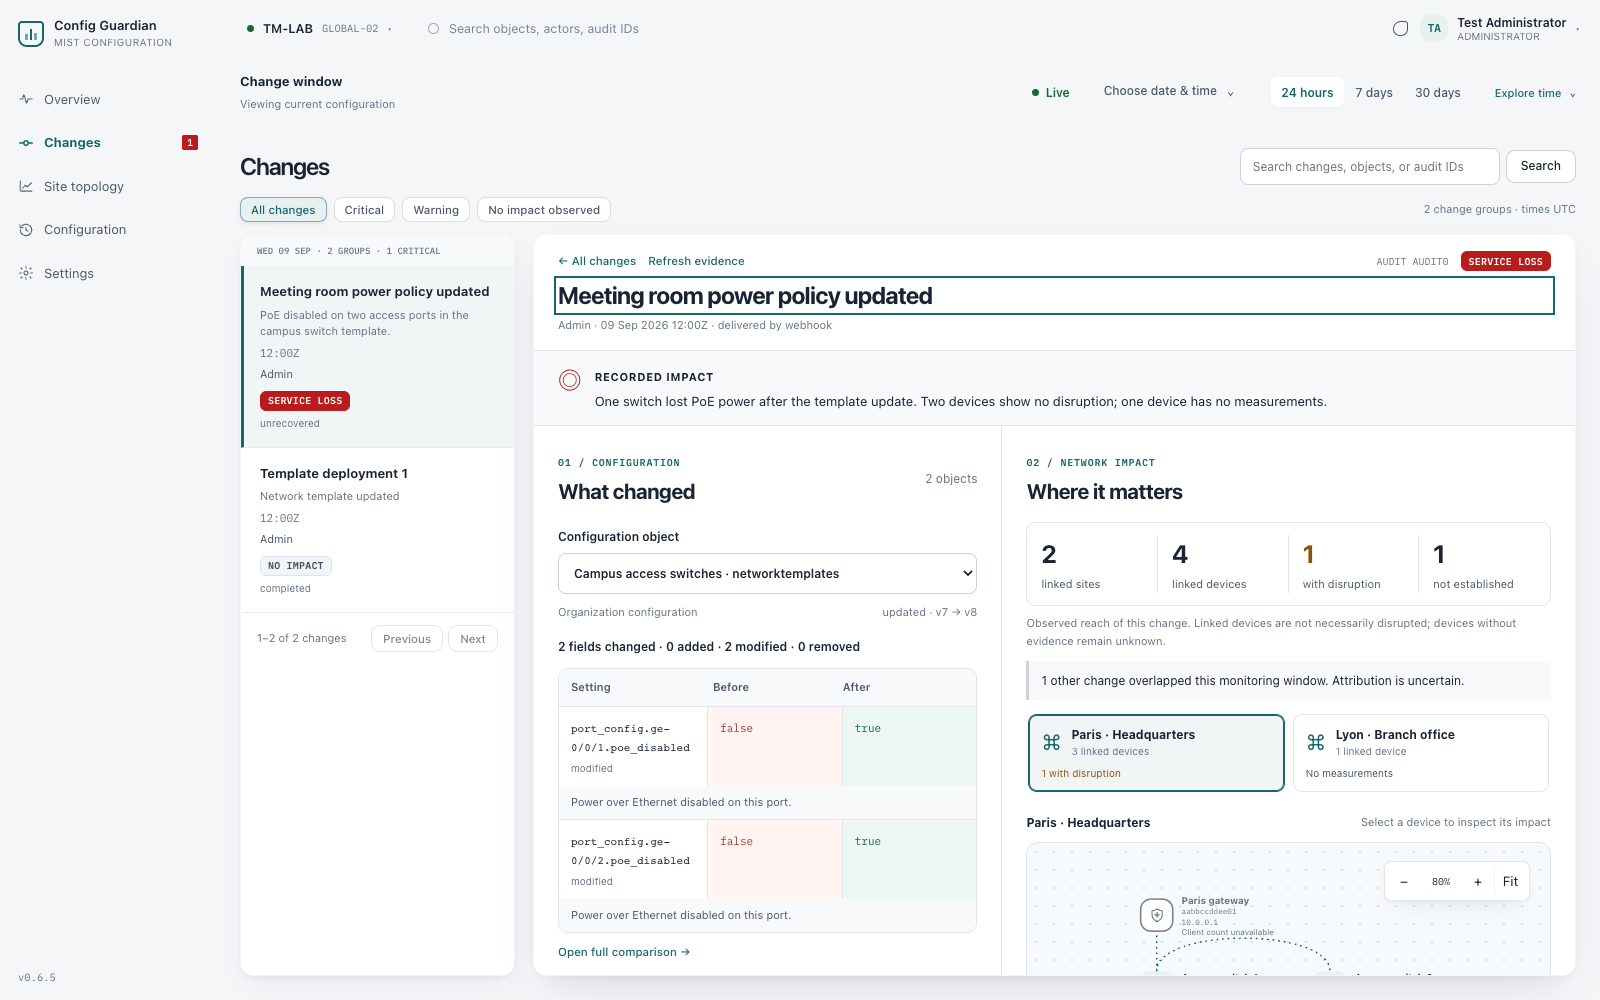
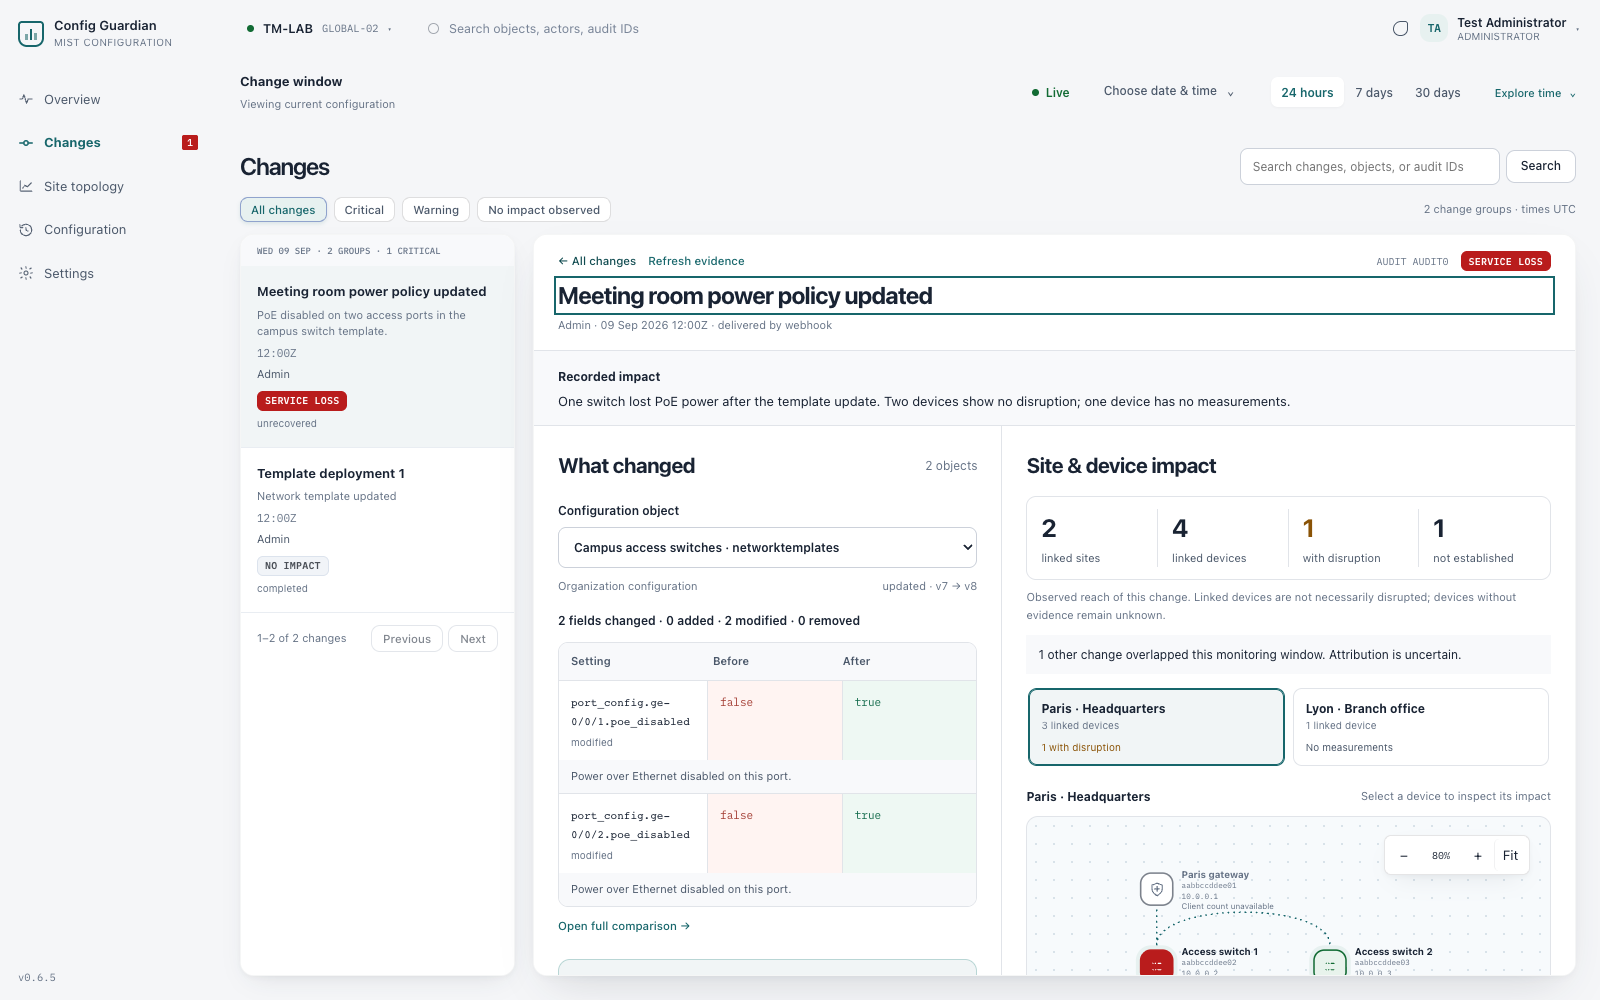
Remove decorative accents from change views

diff --git a/frontend/src/app/features/overview/overview-page.scss b/frontend/src/app/features/overview/overview-page.scss
@@ -13,11 +13,6 @@
   gap: 20px;
   flex-wrap: wrap;
 }
-.eyebrow {
-  font: 600 10px var(--font-mono);
-  letter-spacing: 0.12em;
-  color: var(--brand);
-}
 .head h1 {
   font-size: 35px;
   line-height: 1.2;
@@ -64,17 +59,6 @@
 .stat small {
   font-size: 11px;
   color: var(--ink-soft);
-}
-.stat--primary {
-  background: #123b46;
-  border-color: #123b46;
-  color: white;
-}
-.stat--primary small {
-  color: #bbd5da;
-}
-.stat--primary strong {
-  color: #bcf0c7;
 }
 button.stat {
   cursor: pointer;
@@ -124,13 +108,6 @@ h2 {
   gap: 18px;
   padding: 20px;
   margin-bottom: 10px;
-  border-left: 3px solid var(--rule);
-}
-.card[data-tone='crit'] {
-  border-left-color: var(--tone-critical-ink);
-}
-.card[data-tone='warn'] {
-  border-left-color: var(--tone-warning-ink);
 }
 .entry-time {
   display: flex;
@@ -146,19 +123,6 @@ h2 {
 .entry-time > span:last-child {
   font-size: 9px;
   color: var(--ink-soft);
-  padding-left: 13px;
-}
-.entry-dot {
-  width: 7px;
-  height: 7px;
-  background: var(--rule-strong);
-  border-radius: 50%;
-}
-.entry-dot[data-tone='crit'] {
-  background: var(--tone-critical-ink);
-}
-.entry-dot[data-tone='warn'] {
-  background: var(--tone-warning-ink);
 }
 .card-body {
   flex: 1;
@@ -243,12 +207,12 @@ h2 {
 .topology-shortcut {
   padding: 24px;
   border-radius: 14px;
-  background: #e7eeef;
+  background: var(--surface-raised);
   border: 1px solid var(--glass-border);
   box-shadow: var(--shadow-card);
 }
 .topology-shortcut h2 {
-  font-size: 21px;
+  font-size: 16px;
   line-height: 1.25;
 }
 .topology-shortcut p {
@@ -261,34 +225,6 @@ h2 {
   background: white;
   width: 100%;
   justify-content: space-between;
-}
-.mini-topology {
-  height: 138px;
-  display: flex;
-  flex-direction: column;
-  align-items: center;
-  justify-content: center;
-  padding: 18px 30px;
-  color: #376d78;
-}
-.mini-topology > span {
-  font-size: 24px;
-  line-height: 1;
-}
-.mini-topology i {
-  width: 1px;
-  height: 14px;
-  background: #91b0b6;
-}
-.mini-topology div {
-  display: flex;
-  width: 100%;
-  justify-content: space-around;
-  border-top: 1px solid #91b0b6;
-}
-.mini-topology b {
-  font-size: 22px;
-  font-weight: 400;
 }
 .panel {
   padding: 20px;
@@ -406,9 +342,6 @@ h2 {
   }
   .dashboard-stats {
     grid-template-columns: repeat(2, minmax(0, 1fr));
-  }
-  .topology-shortcut {
-    grid-row: span 2;
   }
 }
 @media (max-width: 600px) {

diff --git a/frontend/src/app/features/overview/overview-page.html b/frontend/src/app/features/overview/overview-page.html
@@ -1,9 +1,8 @@
 <div class="page">
   <header class="head">
     <div>
-      <span class="eyebrow">YOUR NETWORK, IN FOCUS</span>
       <h1 class="cg-page-title">Change overview</h1>
-      <p class="head-sub">A clear view of what changed and what needs your attention.</p>
+      <p class="head-sub">Recent configuration changes and their recorded impact.</p>
     </div>
     <button class="cg-btn cg-btn--primary" (click)="openChanges()">
       Explore all changes <span aria-hidden="true">↗</span>
@@ -11,7 +10,7 @@
   </header>
   @if (counts(); as total) {
     <section class="dashboard-stats" aria-label="Changes in the selected period">
-      <button class="stat stat--primary" (click)="openChanges()">
+      <button class="stat" (click)="openChanges()">
         <span>Configuration changes <span aria-hidden="true">↗</span></span
         ><strong>{{ total.change_groups }}</strong
         ><small>in the selected period</small>
@@ -72,7 +71,7 @@
       @for (card of feed(); track card.id) {
         <article class="cg-card card" [attr.data-tone]="card.tone">
           <div class="entry-time">
-            <span class="entry-dot" [attr.data-tone]="card.tone"></span>{{ card.time }}
+            {{ card.time }}
             <span>UTC</span>
           </div>
           <div class="card-body">
@@ -142,15 +141,8 @@
     </section>
     <aside class="rail">
       <section class="topology-shortcut">
-        <span class="eyebrow">CONNECTED CONTEXT</span>
-        <div class="mini-topology" aria-hidden="true">
-          <span>◇</span><i></i>
-          <div><b>▤</b><b>▤</b></div>
-          <i></i>
-          <div><b>◉</b><b>◉</b><b>◉</b></div>
-        </div>
-        <h2>See the bigger picture.</h2>
-        <p>Explore your sites, follow the connections, and inspect individual devices.</p>
+        <h2>Site topology</h2>
+        <p>View network connections and inspect changes on individual devices.</p>
         <button class="cg-btn" (click)="openTopology()">Open site topology →</button>
       </section>
       @if (historical()) {

diff --git a/frontend/src/app/features/changes/changes-page.html b/frontend/src/app/features/changes/changes-page.html
@@ -1,9 +1,10 @@
 <div class="page" [class.page--detail]="selectedId() !== null">
   <header class="head">
     <div>
-      <span class="eyebrow">CONFIGURATION INTELLIGENCE</span>
       <h1 class="cg-page-title">Changes</h1>
-      <p class="head-sub">See what changed. Understand the impact. Act with confidence.</p>
+      <p class="head-sub">
+        Compare configuration changes, inspect impact, and review rollback options.
+      </p>
     </div>
     <form class="search" (submit)="$event.preventDefault(); search(searchInput.value)">
       <input
@@ -156,7 +157,6 @@
         </header>
         @if (rawDetail(); as change) {
           <div class="change-verdict">
-            <div class="verdict-icon" [attr.data-tone]="detail.tone" aria-hidden="true">◎</div>
             <div>
               <strong>Recorded impact</strong>
               <p>{{ detail.assessment }}</p>
@@ -169,7 +169,6 @@
             <section class="rollback-workspace" aria-label="Rollback review">
               <div class="rollback-heading">
                 <div>
-                  <span class="eyebrow">ROLLBACK / REVIEW & AUTHORIZE</span>
                   <h3>Restore the previous configuration</h3>
                   <p>
                     The previous versions are selected. Review the actions, capture a fresh backup,
@@ -202,7 +201,6 @@
                 />
                 @if (canRestore()) {
                   <section class="rollback-card">
-                    <span class="eyebrow">RECOVERY</span>
                     <h3>Roll back this change</h3>
                     <p>
                       Restore {{ restorable().length }}

diff --git a/frontend/src/app/features/changes/changes-page.scss b/frontend/src/app/features/changes/changes-page.scss
@@ -18,11 +18,6 @@
   gap: 20px;
   flex-wrap: wrap;
 }
-.eyebrow {
-  font: 600 10px var(--font-mono);
-  letter-spacing: 0.1em;
-  color: var(--brand);
-}
 .head h1 {
   font-size: 32px;
   letter-spacing: -1.2px;
@@ -123,7 +118,6 @@
   border-bottom: 1px solid var(--rule-soft);
   align-items: center;
   cursor: pointer;
-  border-left: 3px solid transparent;
 }
 .row--group:hover {
   background: var(--surface-selected-soft);
@@ -134,7 +128,6 @@
 }
 .row--group.row--on {
   background: var(--surface-selected);
-  border-left-color: var(--brand);
 }
 .cell {
   padding: 0;
@@ -267,21 +260,8 @@
   border-bottom: 1px solid var(--rule);
   background: var(--surface-sunken);
 }
-.verdict-icon {
-  font-size: 25px;
-  color: var(--brand);
-  line-height: 1.2;
-}
-.verdict-icon[data-tone='crit'] {
-  color: var(--tone-critical-ink);
-}
-.verdict-icon[data-tone='warn'] {
-  color: var(--tone-warning-ink);
-}
 .change-verdict strong {
-  font-size: 11px;
-  text-transform: uppercase;
-  letter-spacing: 0.06em;
+  font-size: 12px;
 }
 .change-verdict p {
   font-size: 13px;
@@ -458,7 +438,6 @@
   font-size: 24px;
   margin: 0;
 }
-.page--detail .head .eyebrow,
 .page--detail .head-sub {
   display: none;
 }

diff --git a/frontend/src/app/features/changes/change-impact.html b/frontend/src/app/features/changes/change-impact.html
@@ -1,8 +1,5 @@
 <div class="section-heading">
-  <div>
-    <span class="eyebrow">02 / NETWORK IMPACT</span>
-    <h3>Where it matters</h3>
-  </div>
+  <h3>Site & device impact</h3>
 </div>
 @if (historical()) {
   <p class="notice">
@@ -59,8 +56,7 @@
           [attr.aria-pressed]="site()?.site_id === item.site_id"
           (click)="chooseSite(item.site_id)"
         >
-          <span class="site-icon" aria-hidden="true">⌘</span
-          ><span
+          <span
             ><strong>{{ item.site_name }}</strong
             ><small
               >{{ count(item) }} linked {{ count(item) === 1 ? 'device' : 'devices' }}</small
@@ -138,7 +134,7 @@
         <section class="device-detail" aria-label="Selected device impact">
           <div class="device-heading">
             <div>
-              <span class="eyebrow">LOCAL IMPACT</span>
+              <span class="device-context">Device impact</span>
               <h4 tabindex="-1">{{ device.name }}</h4>
               <code>{{ device.mac }}</code>
             </div>

diff --git a/frontend/src/app/features/changes/change-impact.scss b/frontend/src/app/features/changes/change-impact.scss
@@ -5,15 +5,14 @@
 .section-heading {
   margin-bottom: 20px;
 }
-.eyebrow {
-  font: 600 10px var(--font-mono);
-  color: var(--brand);
-  letter-spacing: 0.08em;
+.device-context {
+  font-size: 11px;
+  color: var(--ink-muted);
 }
 h3 {
   font-size: 21px;
   letter-spacing: -0.5px;
-  margin: 5px 0 0;
+  margin: 0;
 }
 .reach {
   display: grid;
@@ -51,7 +50,6 @@ h3 {
 .notice {
   font-size: 12px;
   line-height: 1.6;
-  border-left: 3px solid var(--rule-strong);
   background: var(--surface-sunken);
   padding: 10px 12px;
   overflow-wrap: anywhere;
@@ -91,10 +89,6 @@ h3 {
   font-size: 10px;
   color: var(--ink-soft);
   margin-top: 3px;
-}
-.site-icon {
-  font-size: 22px;
-  color: var(--brand);
 }
 .site-verdict {
   font-size: 10px;

diff --git a/frontend/src/app/features/changes/change-configuration.ts b/frontend/src/app/features/changes/change-configuration.ts
@@ -18,10 +18,7 @@ import { DiffService } from '../history/diff.service';
   changeDetection: ChangeDetectionStrategy.OnPush,
   template: `
     <div class="section-heading">
-      <div>
-        <span class="eyebrow">01 / CONFIGURATION</span>
-        <h3>What changed</h3>
-      </div>
+      <h3>What changed</h3>
       <span class="count"
         >{{ objects().length }} {{ objects().length === 1 ? 'object' : 'objects' }}</span
       >

diff --git a/frontend/src/app/features/changes/change-configuration.scss b/frontend/src/app/features/changes/change-configuration.scss
@@ -9,15 +9,10 @@
   gap: 12px;
   margin-bottom: 20px;
 }
-.eyebrow {
-  font: 600 10px var(--font-mono);
-  color: var(--brand);
-  letter-spacing: 0.08em;
-}
 h3 {
   font-size: 21px;
   letter-spacing: -0.5px;
-  margin: 5px 0 0;
+  margin: 0;
 }
 .count {
   font-size: 12px;

diff --git a/DECISION.md b/DECISION.md
@@ -129,3 +129,14 @@ across Overview, Changes, Site topology, Configuration and Settings. The keyboar
 test waits for the change list to become visible before focusing it, avoiding a
 race with the shell's loading overlay. No API or application behavior changes
 were needed for this visual pass.
+
+The user also requested removal of the generic decorative UI treatment. Recent
+change cards no longer carry colored left borders or duplicate severity dots.
+Slogan overlines, numbered section labels, ornamental icons and the illustrative
+topology thumbnail were removed. Dashboard cards now use neutral surfaces with
+the requested shadows; headings name the information directly. Status badges,
+functional selection states and the actual interactive topology remain.
+
+This cleanup passed the production build, all 19 affected component tests and
+all 16 browser scenarios. The saved dashboard, change and rollback previews
+were refreshed from that run.

diff --git a/docs/design/change-event-impact.md b/docs/design/change-event-impact.md
@@ -34,6 +34,11 @@ without enclosing borders or colored bands. Main content cards and tables use
 soft shadows; detail panes and floating menus sit a level higher. This shared
 styling also applies to Configuration, Site topology and Settings. Historical
 mode remains explicit through its warning text, marker and return-to-live action.
+Use direct, descriptive headings and reserve color for states and controls.
+Avoid decorative status rails, duplicate severity dots, slogan overlines,
+numbered section labels and illustrative network diagrams. The interactive
+topology remains an evidence view; its dashboard shortcut is a plain navigation
+card. Recent changes communicate severity through their labeled badges.
 
 Desktop previews use synthetic browser-test fixtures:
 [overview](change-overview-preview.png),
